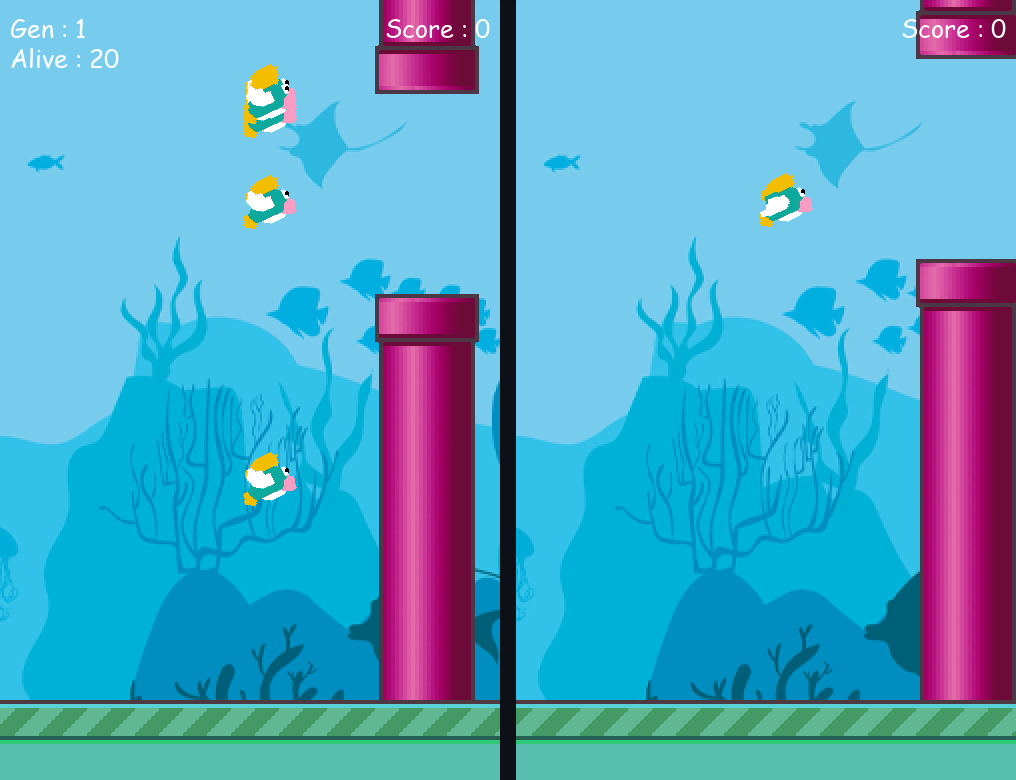
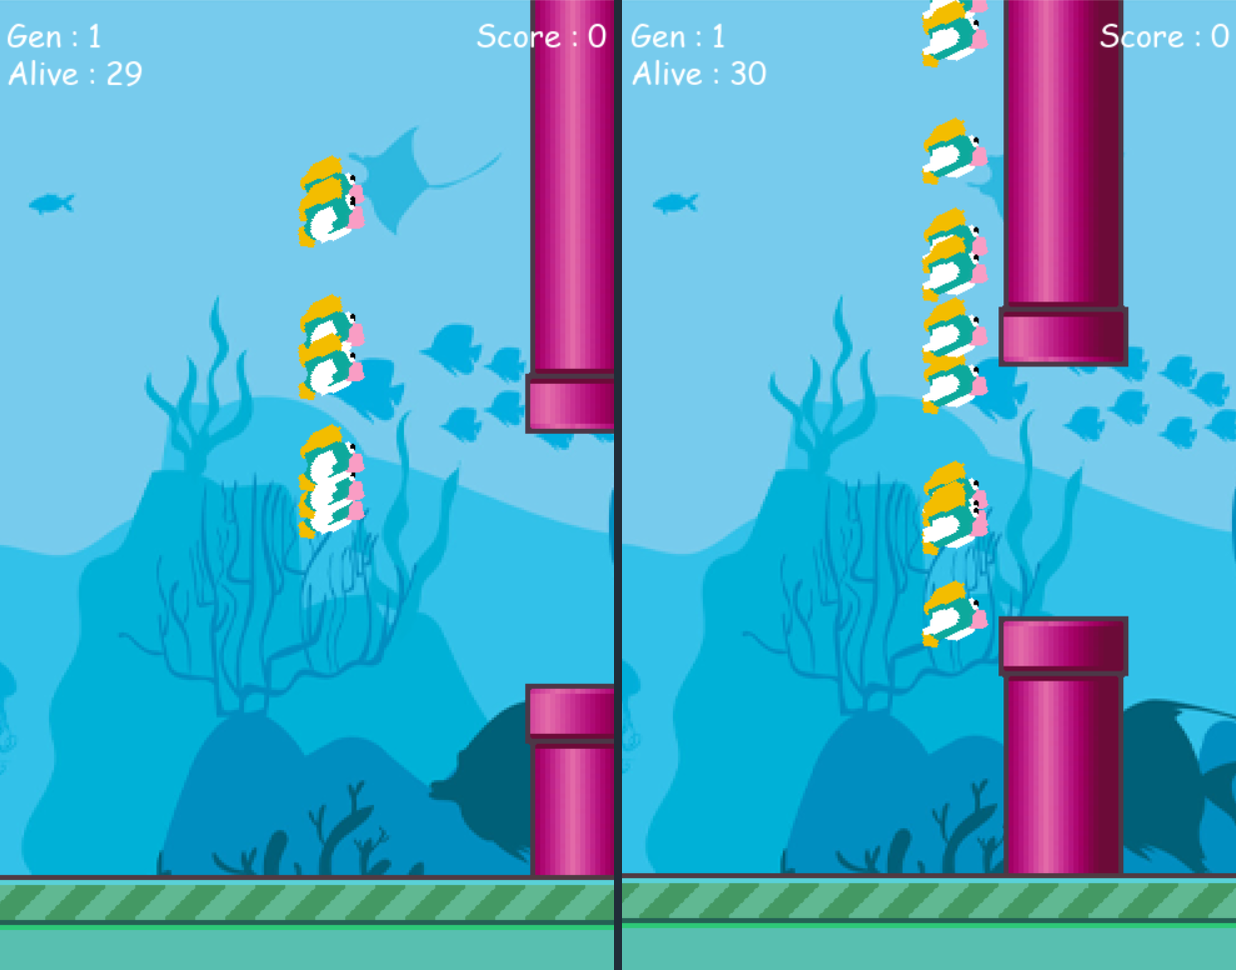
New screenshots of the AI training

diff --git a/README.md b/README.md
@@ -2,7 +2,7 @@
 
 An underwater take on Flappy Bird, built with **Pygame**, plus an AI that **teaches itself to play** using **NEAT** (NeuroEvolution of Augmenting Topologies). No training data and no hand-written strategy: a population of neural networks evolves, generation after generation, until the fish swim through the pipes on their own.
 
-![AI training (left) and human play (right)](docs/screenshots.png)
+![The AI training: a generation of neural-network fish facing their first pipes](docs/screenshots.png)
 
 ## Two ways to run it
 
